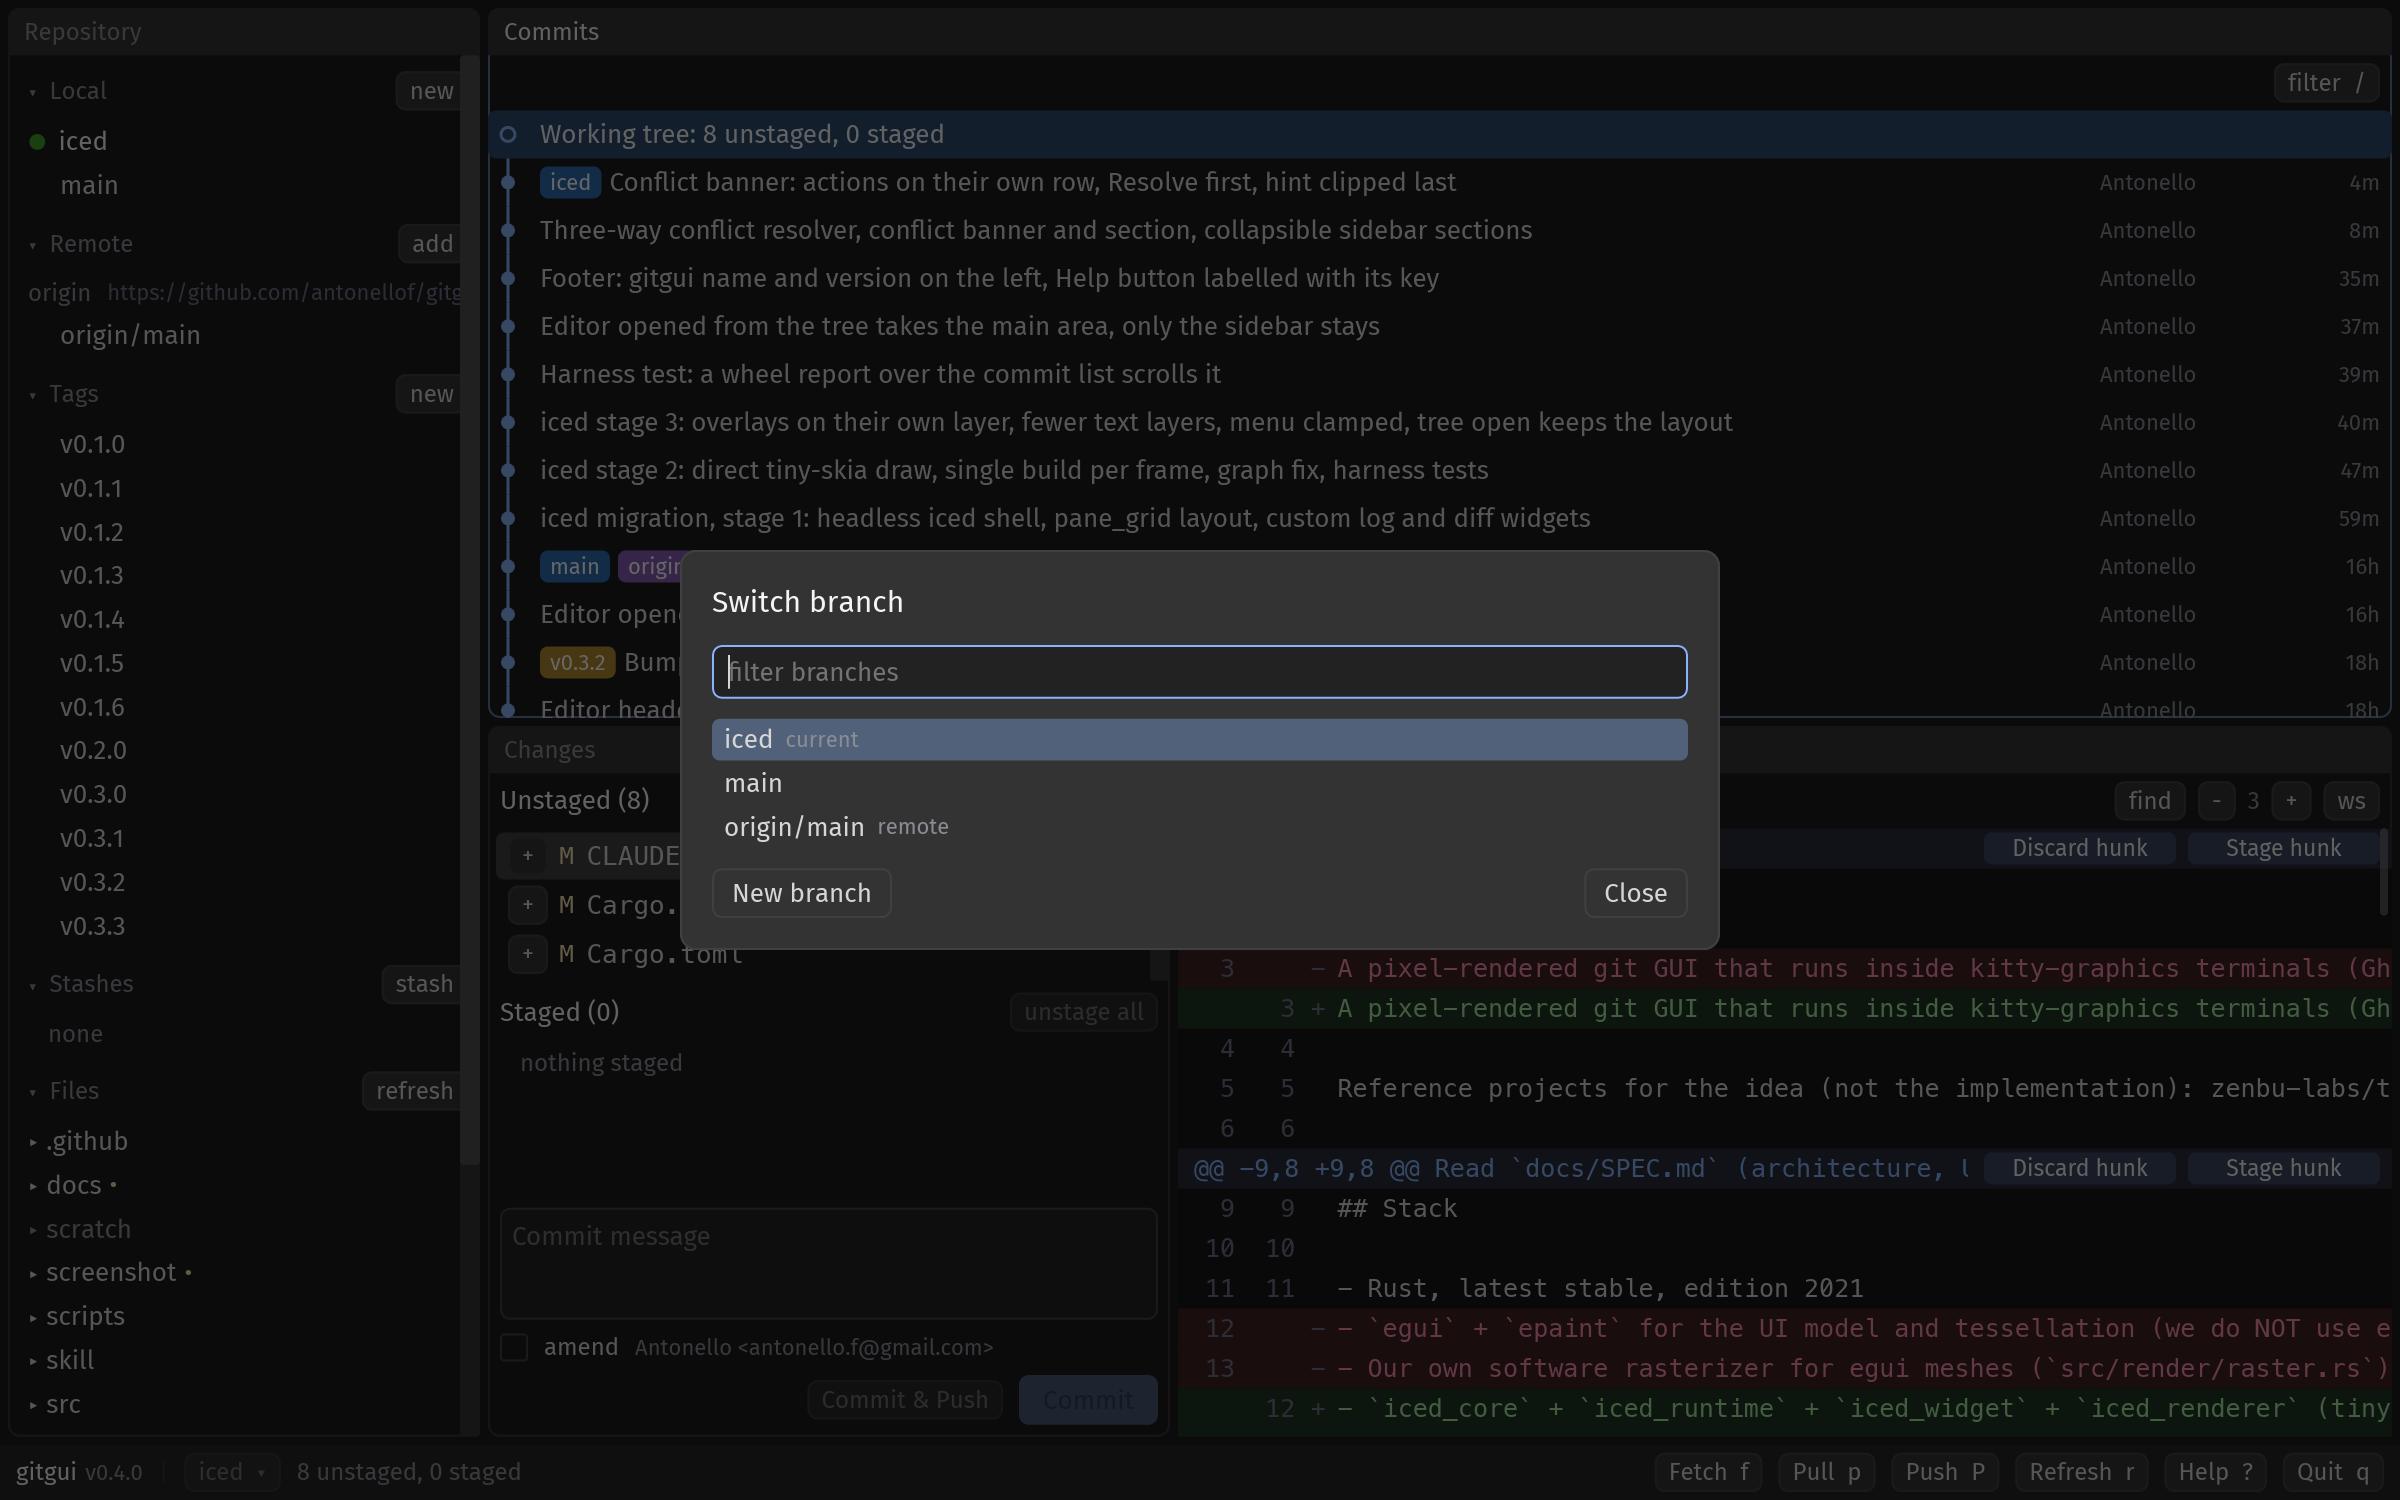
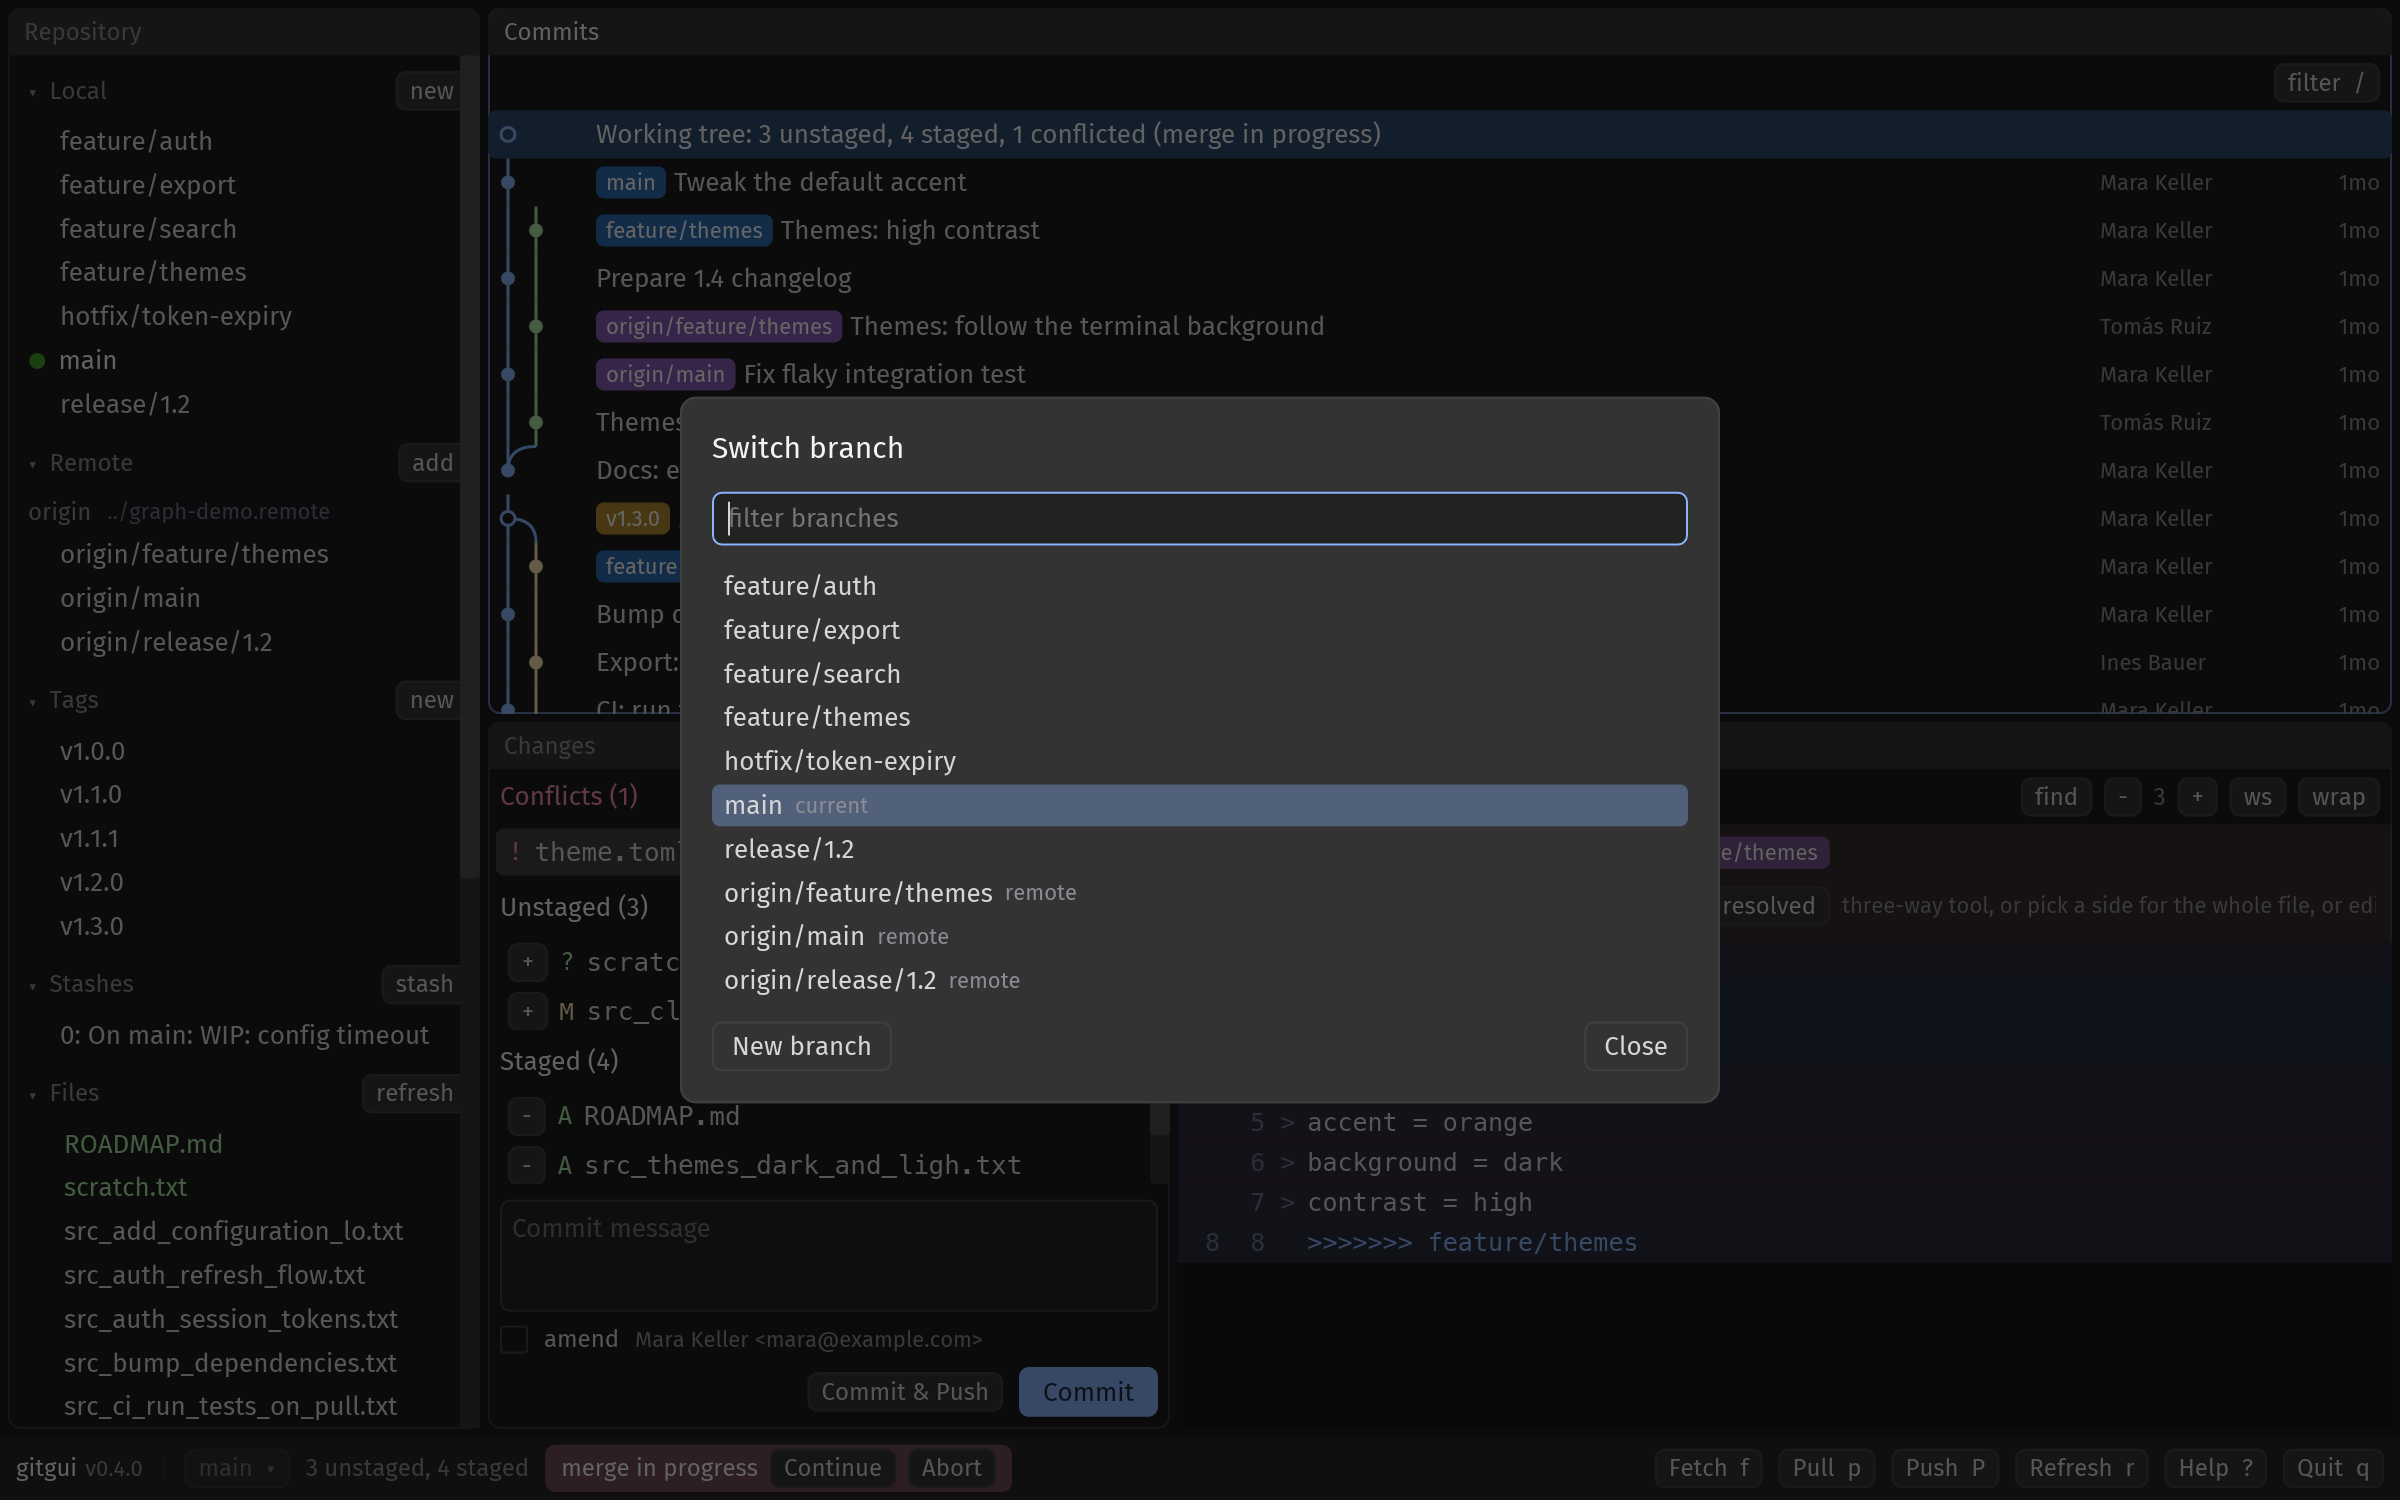
README: one-line intro, thumbnail row for editor, branch switcher, commit menu and shortcuts

diff --git a/README.md b/README.md
@@ -2,7 +2,6 @@
 
 A git GUI that runs inside your terminal, next to your coding agent. One Rust binary paints an [iced](https://iced.rs) interface as pixels into a cmux, Ghostty, kitty or WezTerm pane over the kitty graphics protocol. No Electron, no browser engine, no TUI. Works over SSH.
 
-Commit graph with branch lanes, staging by file, hunk or line, a three-way conflict resolver, history rewriting without an editor popping up, a built-in code editor with syntax colors, and a file tree, on panes you drag and resize. Git writes go through libgit2; fetch, pull and push go through your own `git` so credential helpers and SSH agents keep working. Version 0.4.0, MIT.
 
 Install:
 
@@ -24,6 +23,21 @@ Conflicts open a three-way resolver: ours, result, theirs, with per-conflict but
 
 <p align="center">
   <a href="screenshot/gitgui-merge.png"><img src="screenshot/gitgui-merge.png" width="100%" alt="Three-way conflict resolver: ours, result, theirs"></a>
+</p>
+
+<p align="center">
+  <a href="screenshot/gitgui-editor.png"><img src="screenshot/gitgui-editor.png" width="24%" alt="Built-in editor with syntax colors next to the sidebar"></a>
+  <a href="screenshot/gitgui-branches.png"><img src="screenshot/gitgui-branches.png" width="24%" alt="Branch switcher"></a>
+  <a href="screenshot/gitgui-menu.png"><img src="screenshot/gitgui-menu.png" width="24%" alt="Commit menu: cherry-pick, revert, reset, reword, squash, fixup, drop, move"></a>
+  <a href="screenshot/gitgui-help.png"><img src="screenshot/gitgui-help.png" width="24%" alt="Keyboard reference"></a>
+</p>
+<p align="center">
+  <sub>
+    <a href="screenshot/gitgui-editor.png">editor</a> ·
+    <a href="screenshot/gitgui-branches.png">branch switcher</a> ·
+    <a href="screenshot/gitgui-menu.png">commit menu</a> ·
+    <a href="screenshot/gitgui-help.png">shortcuts</a>
+  </sub>
 </p>
 
 ## Install options
